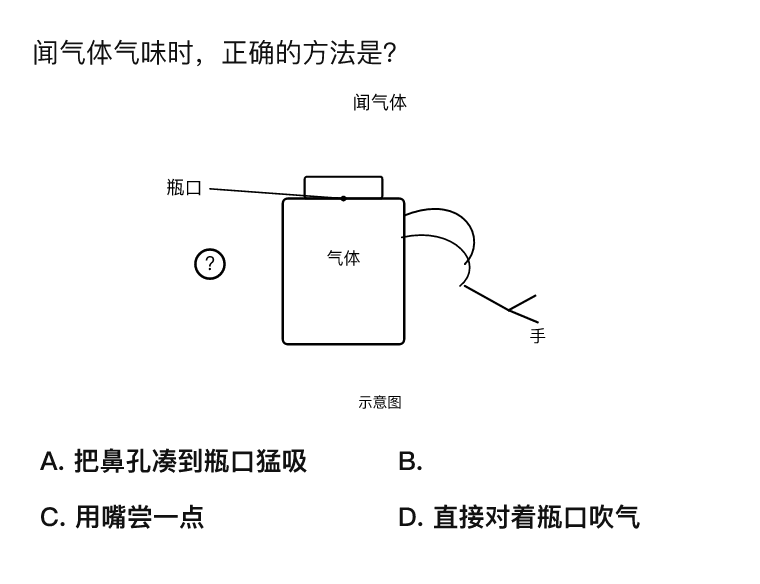
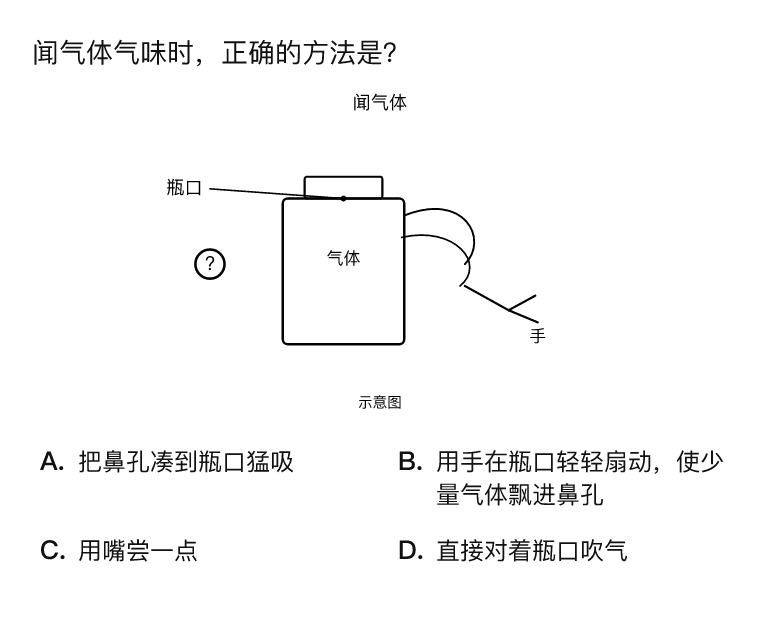
v1.25.3：修复图题长文字选项显示为空白
- build_figure_questions.py 原用『文字>14字即省略』判据，本意过滤有配图的读屏长描述，却把无配图的长文字答案(19~28字)一起吞掉，导致 B/D 等选项空白；A 选项14字溢出到相邻列
- 改为：只有『有配图且超长』才省略文字；纯文字选项完整显示并按列宽 12 字换行
- 重生成 34 张图，24 张内容变化；用户反馈的 7 张空白选项全部修复
- 三校验全绿，包体积 0% 变化

diff --git a/tools/studyassist/build_figure_questions.py b/tools/studyassist/build_figure_questions.py
@@ -122,10 +122,13 @@ def render_question_svg(q, width=760):
         y += h + 18
 
     # 选项：两列网格
+    # 关键：只有「有配图且文字是超长读屏描述」才省略文字；无配图的长文字答案
+    # 必须完整显示并按列宽换行，否则会变成空白选项或溢出到相邻列。
     choices = q.get("choices") or []
     if choices:
         gap = 20
         colw = (inner_w - gap) / 2
+        per_line = 12  # 24px 字号 + 46px 缩进，每列安全容纳 12 个汉字（13 会顶到相邻列）
         rows = [choices[i:i + 2] for i in range(0, len(choices), 2)]
         for row in rows:
             row_top, row_h = y, 0
@@ -133,19 +136,34 @@ def render_question_svg(q, width=760):
                 cx = pad + idx * (colw + gap)
                 key = c.get("key", "?")
                 raw = (c.get("text") or "").strip()
-                label = raw if len(raw) <= 14 else ""  # 长描述是读屏用，图里省略
+                has_fig = bool(c.get("figure"))
+                # 有图的选项：短标签保留，长文本是读屏描述、图里省略
+                # 无图的选项：文字就是答案本身，一律完整显示并换行
+                label = raw if (not has_fig or len(raw) <= 14) else ""
+                lines = wrap_cjk(label, per_line) if label else []
+                # 字母 + 文字第一行同排；后续行缩进到文字起点
                 parts.append(f'<text x="{cx+8:.1f}" y="{row_top+30}" font-size="26" font-weight="bold" fill="#111" '
-                             f'font-family="PingFang SC, Heiti SC, sans-serif">{esc(key)}. {esc(label)}</text>')
-                ch = 38
-                if c.get("figure"):
+                             f'font-family="PingFang SC, Heiti SC, sans-serif">{esc(key)}.</text>')
+                tx = cx + 46
+                for li, ln in enumerate(lines):
+                    ly = row_top + 30 + li * 33
+                    parts.append(f'<text x="{tx:.1f}" y="{ly}" font-size="24" fill="#111" '
+                                 f'font-family="PingFang SC, Heiti SC, sans-serif">{esc(ln)}</text>')
+                text_h = 38 + max(0, len(lines) - 1) * 33
+                ch = text_h
+                if has_fig:
                     vb = svg_viewbox(c["figure"])
                     scale = min((colw - 16) / vb[2], 150 / vb[3], 1.2)
                     w, h = vb[2] * scale, vb[3] * scale
-                    ox = cx + 8 - vb[0] * scale
-                    oy = row_top + 36 - vb[1] * scale
+                    # 有文字标签时图放文字右侧；无文字（读屏描述）时图放整列宽
+                    if lines:
+                        ox = cx + colw - w - 8 - vb[0] * scale
+                    else:
+                        ox = cx + 8 - vb[0] * scale
+                    oy = row_top + 8 - vb[1] * scale
                     parts.append(f'<g transform="translate({ox:.1f},{oy:.1f}) scale({scale:.3f},{scale:.3f})">'
                                  f'{inner_svg(c["figure"])}</g>')
-                    ch += h
+                    ch = max(text_h, h + 16)
                 row_h = max(row_h, ch + 12)
             y = row_top + row_h + 6
     y += pad
